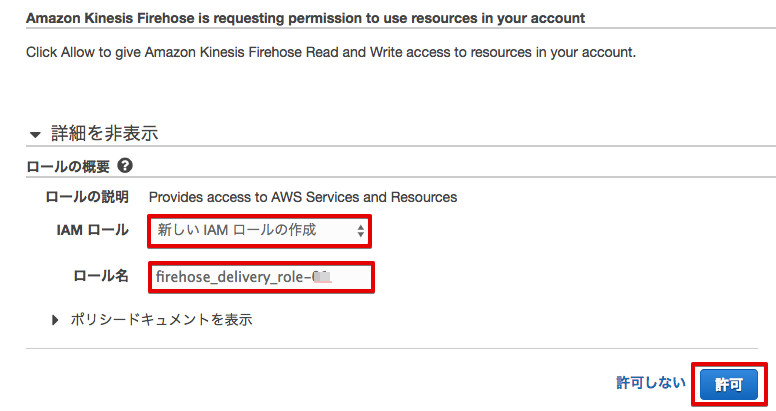
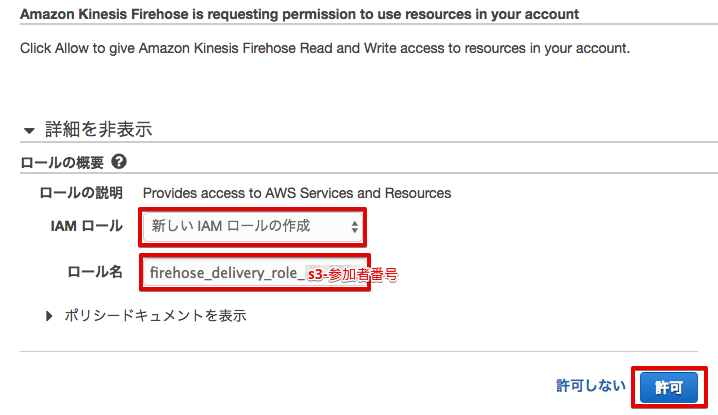
Update

Changed region(s): [[0.0306, 0.292, 1.0, 0.8175], [0.0306, 0.0, 1.0, 0.146], [0.766, 0.8759, 1.0, 0.9927]]

diff --git a/docs/05.rst b/docs/05.rst
@@ -260,6 +260,20 @@ Lambda function        ranger-raw-data-to-json-<参加者番号>
 
 |
 
+Step 3 で、Destination として **Amazon S3** を選択し、下記の情報を入力し、[Next] をクリックします。
+
+======================= =======================================
+項目                      設定
+======================= =======================================
+Destination                 Amazon S3
+Delivery stream name        sensor-data-to-s3-<参加者番号>
+S3 bucket                   sensor-data-<参加者番号>-<ユニークな文字>
+======================= =======================================
+
+.. image:: images/05/create-delivery-stream-3-1.png
+
+|
+
 ========================= =======================================
 項目                         設定
 ========================= =======================================
